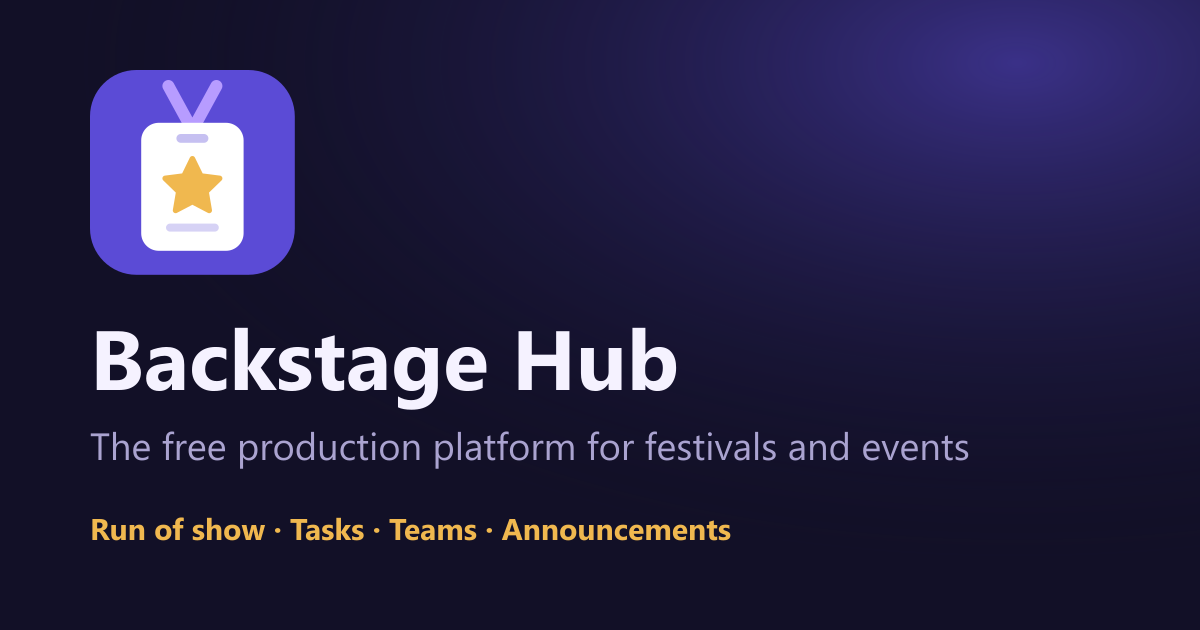
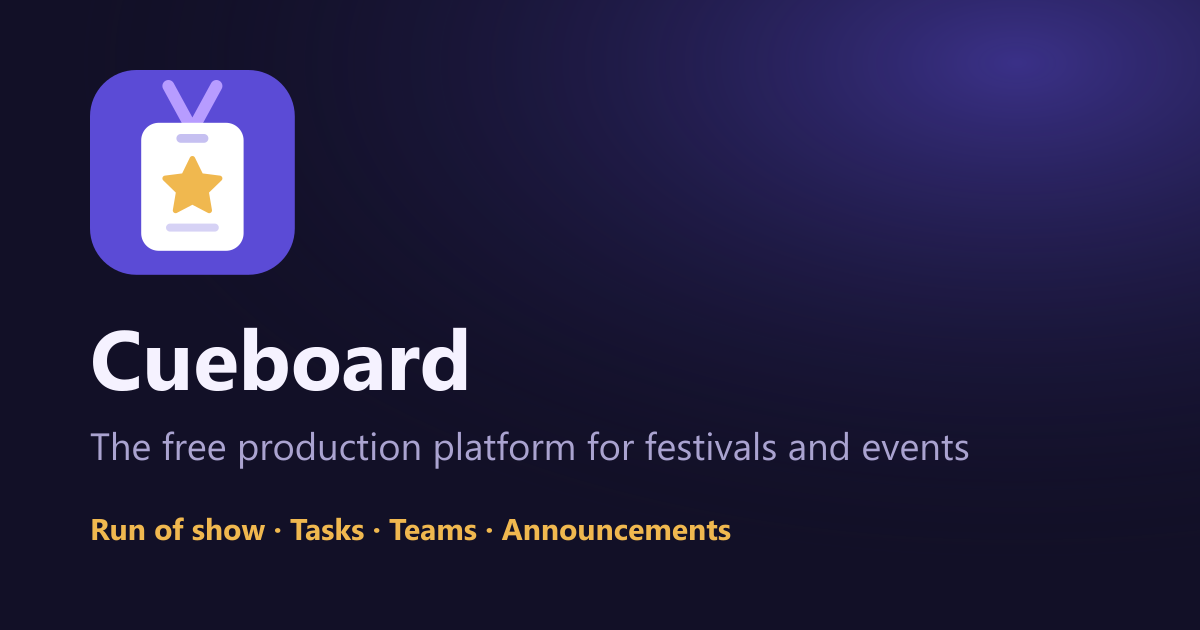
Nieuwe naam: Cueboard
App, website, manifest, help, README, gidsen, deelafbeelding en pakketnaam heten nu Cueboard. WhatsApp-uitnodiging noemt het evenement in plaats van een vaste naam.

Changed region(s): [[0.0617, 0.5127, 0.5858, 0.6635]]

diff --git a/src/content/landing.ts b/src/content/landing.ts
@@ -160,8 +160,8 @@ export const LANDING = {
   free: {
     title: L('Free. Really.', 'Gratis. Echt.'),
     body: L(
-      'Backstage Hub runs entirely on free plans. You never pay a subscription, and the code is open source, so nobody can take it away from you.',
-      'Backstage Hub draait volledig op gratis plannen. Je betaalt nooit een abonnement, en de code is open source, dus niemand kan het van je afpakken.',
+      'Cueboard runs entirely on free plans. You never pay a subscription, and the code is open source, so nobody can take it away from you.',
+      'Cueboard draait volledig op gratis plannen. Je betaalt nooit een abonnement, en de code is open source, dus niemand kan het van je afpakken.',
     ),
     rows: [
       {
@@ -233,8 +233,8 @@ export const LANDING = {
   cta: {
     title: L('Ready for your next show?', 'Klaar voor je volgende show?'),
     body: L(
-      'Set up your own Backstage Hub in an afternoon, for free.',
-      'Zet in een namiddag je eigen Backstage Hub op, gratis.',
+      'Set up your own Cueboard in an afternoon, for free.',
+      'Zet in een namiddag je eigen Cueboard op, gratis.',
     ),
   },
   footer: {
@@ -247,31 +247,31 @@ export const LANDING = {
 };
 
 export const ABOUT = {
-  title: L('About Backstage Hub', 'Over Backstage Hub'),
+  title: L('About Cueboard', 'Over Cueboard'),
   intro: L(
-    'Backstage Hub is a free, open-source production platform for festivals and events. It was made by {name}, a young stage manager.',
-    'Backstage Hub is een gratis, open-source productieplatform voor festivals en evenementen. Het is gemaakt door {name}, een jonge stage manager.',
+    'Cueboard is a free, open-source production platform for festivals and events. It was made by {name}, a young stage manager.',
+    'Cueboard is een gratis, open-source productieplatform voor festivals en evenementen. Het is gemaakt door {name}, een jonge stage manager.',
   ),
   sections: [
     {
       title: L('Why it exists', 'Waarom het bestaat'),
       body: L(
-        'On show day, the information a crew needs is everywhere: a Trello board, a few PDFs, three group chats and a printed run of show that is already outdated. The professional tools that solve this cost a lot of money every month, or are built for an office instead of a dark backstage. I wanted one place for what, who, where and when, that works with one hand, in bad signal, and that every festival can use for free. Backstage Hub is that place.',
-        'Op de showdag staat de informatie die een crew nodig heeft overal: een Trello-bord, een paar pdf’s, drie groepschats en een afgedrukte run of show die al niet meer klopt. De professionele tools die dat oplossen kosten elke maand veel geld, of zijn gemaakt voor een kantoor in plaats van een donkere backstage. Ik wilde één plek voor wat, wie, waar en wanneer, die werkt met één hand, bij slecht bereik, en die elk festival gratis kan gebruiken. Backstage Hub is die plek.',
+        'On show day, the information a crew needs is everywhere: a Trello board, a few PDFs, three group chats and a printed run of show that is already outdated. The professional tools that solve this cost a lot of money every month, or are built for an office instead of a dark backstage. I wanted one place for what, who, where and when, that works with one hand, in bad signal, and that every festival can use for free. Cueboard is that place.',
+        'Op de showdag staat de informatie die een crew nodig heeft overal: een Trello-bord, een paar pdf’s, drie groepschats en een afgedrukte run of show die al niet meer klopt. De professionele tools die dat oplossen kosten elke maand veel geld, of zijn gemaakt voor een kantoor in plaats van een donkere backstage. Ik wilde één plek voor wat, wie, waar en wanneer, die werkt met één hand, bij slecht bereik, en die elk festival gratis kan gebruiken. Cueboard is die plek.',
       ),
     },
     {
       title: L('Made with Art of Faith', 'Gemaakt met Art of Faith'),
       body: L(
-        'The first event to use Backstage Hub is the Art of Faith festival weekend. Their real way of working (a core team, coordinators, production with a team per stage, hospitality, MarCom and programme) shaped the teams, roles and templates. Everything that is specific to one festival became a setting, so any event can use it.',
-        'Het eerste evenement dat Backstage Hub gebruikt is het Art of Faith-festivalweekend. Hun echte manier van werken (een kernteam, coördinatoren, productie met een team per podium, hospitality, MarCom en programma) bepaalde de teams, rollen en sjablonen. Alles wat eigen is aan één festival werd een instelling, zodat elk evenement het kan gebruiken.',
+        'The first event to use Cueboard is the Art of Faith festival weekend. Their real way of working (a core team, coordinators, production with a team per stage, hospitality, MarCom and programme) shaped the teams, roles and templates. Everything that is specific to one festival became a setting, so any event can use it.',
+        'Het eerste evenement dat Cueboard gebruikt is het Art of Faith-festivalweekend. Hun echte manier van werken (een kernteam, coördinatoren, productie met een team per podium, hospitality, MarCom en programma) bepaalde de teams, rollen en sjablonen. Alles wat eigen is aan één festival werd een instelling, zodat elk evenement het kan gebruiken.',
       ),
     },
     {
       title: L('How it is built', 'Hoe het gemaakt is'),
       body: L(
-        'Backstage Hub is a web app (PWA) built with React and TypeScript. The data lives in Supabase (Postgres in Frankfurt, EU), where every table is protected by row-level security: the database itself checks what each role may see. The site is hosted on Cloudflare Pages. I designed and directed it as a stage manager and built it together with Claude, an AI assistant by Anthropic, step by step and with automated tests for every rule that keeps your data safe.',
-        'Backstage Hub is een web-app (PWA), gemaakt met React en TypeScript. De gegevens staan in Supabase (Postgres in Frankfurt, EU), waar elke tabel beschermd is met row-level security: de database controleert zelf wat elke rol mag zien. De site draait op Cloudflare Pages. Ik heb het als stage manager ontworpen en aangestuurd, en het samen met Claude gebouwd, een AI-assistent van Anthropic, stap voor stap en met automatische tests voor elke regel die je gegevens beschermt.',
+        'Cueboard is a web app (PWA) built with React and TypeScript. The data lives in Supabase (Postgres in Frankfurt, EU), where every table is protected by row-level security: the database itself checks what each role may see. The site is hosted on Cloudflare Pages. I designed and directed it as a stage manager and built it together with Claude, an AI assistant by Anthropic, step by step and with automated tests for every rule that keeps your data safe.',
+        'Cueboard is een web-app (PWA), gemaakt met React en TypeScript. De gegevens staan in Supabase (Postgres in Frankfurt, EU), waar elke tabel beschermd is met row-level security: de database controleert zelf wat elke rol mag zien. De site draait op Cloudflare Pages. Ik heb het als stage manager ontworpen en aangestuurd, en het samen met Claude gebouwd, een AI-assistent van Anthropic, stap voor stap en met automatische tests voor elke regel die je gegevens beschermt.',
       ),
     },
     {

diff --git a/src/i18n/nl.ts b/src/i18n/nl.ts
@@ -2,7 +2,7 @@ import type { Dictionary } from './types';
 
 export const nl: Dictionary = {
   app: {
-    name: 'Backstage Hub',
+    name: 'Cueboard',
     tagline: 'Plan, verdeel en draai je evenement samen met je crew.',
     loading: 'Bezig met laden…',
     skipToContent: 'Naar de inhoud',
@@ -70,7 +70,7 @@ export const nl: Dictionary = {
     noAccount:
       'Nog geen account? Je krijgt een uitnodiging van de beheerder via e-mail of WhatsApp.',
     privacyLink: 'Privacyverklaring',
-    whatIs: 'Wat is Backstage Hub?',
+    whatIs: 'Wat is Cueboard?',
     errTooMany: 'Te veel pogingen. Wacht een paar minuten en probeer opnieuw.',
     errInvalid: 'E-mailadres of wachtwoord klopt niet. Controleer beide en probeer opnieuw.',
     errNetwork: 'Geen verbinding met de server. Controleer je internet of probeer later opnieuw.',
@@ -104,8 +104,8 @@ export const nl: Dictionary = {
   },
   privacy: {
     title: 'Privacyverklaring',
-    p1: 'Backstage Hub bewaart enkel wat nodig is om het evenement te organiseren: je naam, team, telefoonnummer en e-mailadres, plus wat je zelf in de app doet (taken, aftekeningen, berichten).',
-    p2: 'Elke organisatie draait haar eigen kopie van Backstage Hub. Je gegevens staan in de eigen database van die organisatie bij Supabase, in een EU-regio. Ze worden niet gedeeld met derden en nooit gebruikt voor reclame.',
+    p1: 'Cueboard bewaart enkel wat nodig is om het evenement te organiseren: je naam, team, telefoonnummer en e-mailadres, plus wat je zelf in de app doet (taken, aftekeningen, berichten).',
+    p2: 'Elke organisatie draait haar eigen kopie van Cueboard. Je gegevens staan in de eigen database van die organisatie bij Supabase, in een EU-regio. Ze worden niet gedeeld met derden en nooit gebruikt voor reclame.',
     p3: 'De organisatie die je uitnodigde, is verantwoordelijk voor je gegevens. Wil je je gegevens inkijken of laten wissen? Vraag het aan de beheerder van je evenement.',
     back: 'Terug',
   },
@@ -233,7 +233,7 @@ export const nl: Dictionary = {
     copied: 'Gekopieerd',
     copyPrompt: 'Kopieer deze link:',
     whatsappText:
-      'Hoi {first}! Je bent uitgenodigd voor de Art of Faith Production Hub. Open deze link op je eigen toestel en kies een wachtwoord (de link werkt één keer): {link}',
+      'Hoi {first}! Je bent uitgenodigd voor {event} op Cueboard. Open deze link op je eigen toestel en kies een wachtwoord (de link werkt één keer): {link}',
     deactivate: 'Deactiveren',
     reactivate: 'Opnieuw activeren',
     confirmDeactivate: '{name} deactiveren? De toegang is meteen weg.',
@@ -566,7 +566,7 @@ export const nl: Dictionary = {
   setup: {
     claimTitle: 'Welkom! Je bent hier de eerste',
     claimBody:
-      'Nog niemand beheert deze Backstage Hub. Word beheerder om je evenement in te stellen, je team uit te nodigen en de planning te maken.',
+      'Nog niemand beheert deze Cueboard. Word beheerder om je evenement in te stellen, je team uit te nodigen en de planning te maken.',
     claimButton: 'Beheerder worden',
     title: 'Je evenement instellen',
     progress: '{done} van {total} stappen klaar',

diff --git a/src/i18n/en.ts b/src/i18n/en.ts
@@ -4,7 +4,7 @@
 
 export const en = {
   app: {
-    name: 'Backstage Hub',
+    name: 'Cueboard',
     tagline: 'Plan, assign and run your event with your crew.',
     loading: 'Loading…',
     skipToContent: 'Skip to content',
@@ -71,7 +71,7 @@ export const en = {
     forgotLink: 'Forgot your password?',
     noAccount: 'No account yet? The admin will send you an invite by email or WhatsApp.',
     privacyLink: 'Privacy statement',
-    whatIs: 'What is Backstage Hub?',
+    whatIs: 'What is Cueboard?',
     errTooMany: 'Too many attempts. Wait a few minutes and try again.',
     errInvalid: 'Email address or password is incorrect. Check both and try again.',
     errNetwork: 'No connection to the server. Check your internet or try again later.',
@@ -105,8 +105,8 @@ export const en = {
   },
   privacy: {
     title: 'Privacy statement',
-    p1: 'Backstage Hub only stores what is needed to run the event: your name, team, phone number and email address, plus what you do in the app (tasks, sign-offs, messages).',
-    p2: 'Every organisation runs its own copy of Backstage Hub. Your data is stored in that organisation’s own database at Supabase, in an EU region. It is not shared with third parties and never used for advertising.',
+    p1: 'Cueboard only stores what is needed to run the event: your name, team, phone number and email address, plus what you do in the app (tasks, sign-offs, messages).',
+    p2: 'Every organisation runs its own copy of Cueboard. Your data is stored in that organisation’s own database at Supabase, in an EU region. It is not shared with third parties and never used for advertising.',
     p3: 'The organisation that invited you is responsible for your data. Want to see your data or have it deleted? Ask the admin of your event.',
     back: 'Back',
   },
@@ -234,7 +234,7 @@ export const en = {
     copied: 'Copied',
     copyPrompt: 'Copy this link:',
     whatsappText:
-      'Hi {first}! You have been invited to the Art of Faith Production Hub. Open this link on your own device and choose a password (the link works once): {link}',
+      'Hi {first}! You have been invited to {event} on Cueboard. Open this link on your own device and choose a password (the link works once): {link}',
     deactivate: 'Deactivate',
     reactivate: 'Reactivate',
     confirmDeactivate: 'Deactivate {name}? Access is removed immediately.',
@@ -563,7 +563,7 @@ export const en = {
   setup: {
     claimTitle: 'Welcome! You are the first one here',
     claimBody:
-      'Nobody manages this Backstage Hub yet. Become the admin to set up your event, invite your team and build the schedule.',
+      'Nobody manages this Cueboard yet. Become the admin to set up your event, invite your team and build the schedule.',
     claimButton: 'Become admin',
     title: 'Set up your event',
     progress: '{done} of {total} steps done',

diff --git a/src/content/help.ts b/src/content/help.ts
@@ -51,10 +51,10 @@ export const CATEGORIES: { id: CategoryId; title: Text; icon: string; color: str
 export const ARTICLES: Article[] = [
   // ---------------------------------------------------------------- Aan de slag
   {
-    slug: 'what-is-backstage-hub',
+    slug: 'what-is-cueboard',
     category: 'start',
     audience: 'everyone',
-    title: L('What is Backstage Hub?', 'Wat is Backstage Hub?'),
+    title: L('What is Cueboard?', 'Wat is Cueboard?'),
     summary: L(
       'One place for what, who, where and when during your event.',
       'Eén plek voor wat, wie, waar en wanneer tijdens je evenement.',
@@ -63,8 +63,8 @@ export const ARTICLES: Article[] = [
       {
         type: 'p',
         text: L(
-          'Backstage Hub replaces the mix of Trello boards, PDFs and group chats that most productions use. Everyone on the team sees their own day: what is happening now, what is next, which tasks are theirs and what the team needs to know.',
-          'Backstage Hub vervangt de mix van Trello-borden, pdf’s en groepschats die de meeste producties gebruiken. Iedereen in het team ziet de eigen dag: wat er nu gebeurt, wat er komt, welke taken van jou zijn en wat het team moet weten.',
+          'Cueboard replaces the mix of Trello boards, PDFs and group chats that most productions use. Everyone on the team sees their own day: what is happening now, what is next, which tasks are theirs and what the team needs to know.',
+          'Cueboard vervangt de mix van Trello-borden, pdf’s en groepschats die de meeste producties gebruiken. Iedereen in het team ziet de eigen dag: wat er nu gebeurt, wat er komt, welke taken van jou zijn en wat het team moet weten.',
         ),
       },
       { type: 'h', text: L('The parts', 'De onderdelen') },
@@ -809,8 +809,8 @@ export const ARTICLES: Article[] = [
     audience: 'admins',
     title: L('Set up your own free copy', 'Je eigen gratis kopie opzetten'),
     summary: L(
-      'Your own Backstage Hub on free plans, in about an hour.',
-      'Je eigen Backstage Hub op gratis plannen, in ongeveer een uur.',
+      'Your own Cueboard on free plans, in about an hour.',
+      'Je eigen Cueboard op gratis plannen, in ongeveer een uur.',
     ),
     blocks: [
       {

diff --git a/index.html b/index.html
@@ -7,17 +7,17 @@
     <meta name="apple-mobile-web-app-capable" content="yes" />
     <meta name="mobile-web-app-capable" content="yes" />
     <meta name="apple-mobile-web-app-status-bar-style" content="black-translucent" />
-    <meta name="apple-mobile-web-app-title" content="Backstage Hub" />
+    <meta name="apple-mobile-web-app-title" content="Cueboard" />
     <link rel="icon" href="/favicon.ico" sizes="48x48" />
     <link rel="icon" href="/logo.svg" type="image/svg+xml" />
     <link rel="apple-touch-icon" href="/apple-touch-icon-180x180.png" />
-    <title>Backstage Hub · Free production platform for festivals and events</title>
+    <title>Cueboard · Free production platform for festivals and events</title>
     <meta
       name="description"
       content="Run of show, tasks, teams and announcements in one place. Free and open source, made by a stage manager. Works on iPad, iPhone and laptop."
     />
     <meta property="og:type" content="website" />
-    <meta property="og:title" content="Backstage Hub" />
+    <meta property="og:title" content="Cueboard" />
     <meta
       property="og:description"
       content="The free production platform for festivals and events. Made by a stage manager, for crews."

diff --git a/src/config/site.ts b/src/config/site.ts
@@ -1,8 +1,8 @@
-// Publieke gegevens van Backstage Hub. Pas dit bestand aan als je een eigen
+// Publieke gegevens van Cueboard. Pas dit bestand aan als je een eigen
 // kopie opzet: de rest van de site leest alles hieruit.
 
 export const SITE = {
-  name: 'Backstage Hub',
+  name: 'Cueboard',
   creator: {
     name: 'Elias Azizov',
     /** Optionele link (bv. Instagram of LinkedIn). Leeg = geen link. */
@@ -10,7 +10,7 @@ export const SITE = {
   },
   /**
    * Publieke GitHub-repository met de code (open source, MIT).
-   * Vul in zodra de repository bestaat, bv. 'https://github.com/jouwnaam/backstage-hub'.
+   * Vul in zodra de repository bestaat, bv. 'https://github.com/jouwnaam/cueboard'.
    * Leeg = de links naar code en forum worden verborgen.
    */
   repoUrl: '',

diff --git a/src/features/people/ShareLink.tsx b/src/features/people/ShareLink.tsx
@@ -2,12 +2,18 @@ import { useState } from 'react';
 import { Check, Copy, MessageCircle } from 'lucide-react';
 import { whatsappUrl } from '@/lib/invite';
 import { useT } from '@/lib/usePrefs';
+import { useEvent } from '@/lib/refdata';
 
 /** Shows a one-time link with buttons to copy it or share it via WhatsApp. */
 export function ShareLink({ name, link }: { name: string; link: string }) {
   const { t } = useT();
+  const event = useEvent();
   const [copied, setCopied] = useState(false);
-  const message = t('people.whatsappText', { first: name.split(' ')[0] ?? name, link });
+  const message = t('people.whatsappText', {
+    first: name.split(' ')[0] ?? name,
+    event: event.data?.name ?? 'Cueboard',
+    link,
+  });
 
   async function copy() {
     try {

diff --git a/src/features/public/HelpPages.tsx b/src/features/public/HelpPages.tsx
@@ -33,8 +33,8 @@ const CAT_ICON: Record<string, LucideIcon> = {
 const T = {
   title: { en: 'Help centre', nl: 'Helpcentrum' },
   subtitle: {
-    en: 'Step-by-step explanations of every part of Backstage Hub.',
-    nl: 'Stap-voor-stap uitleg over elk onderdeel van Backstage Hub.',
+    en: 'Step-by-step explanations of every part of Cueboard.',
+    nl: 'Stap-voor-stap uitleg over elk onderdeel van Cueboard.',
   },
   search: {
     en: 'Search, for example "import" or "radio"',

diff --git a/vite.config.ts b/vite.config.ts
@@ -14,8 +14,8 @@ export default defineConfig({
       registerType: 'prompt',
       includeAssets: ['logo.svg', 'favicon.ico', 'apple-touch-icon-180x180.png'],
       manifest: {
-        name: 'Backstage Hub',
-        short_name: 'Backstage Hub',
+        name: 'Cueboard',
+        short_name: 'Cueboard',
         description: 'Plan, assign and run your event with your crew.',
         lang: 'en',
         start_url: '/',

diff --git a/src/features/public/LandingPage.tsx b/src/features/public/LandingPage.tsx
@@ -36,7 +36,7 @@ const FEATURE_ICON: Record<string, { icon: LucideIcon; color: string }> = {
   offline: { icon: Wifi, color: 'rose' },
 };
 
-/** Publieke showcase: wat is Backstage Hub, voor wie, en hoe begin je. */
+/** Publieke showcase: wat is Cueboard, voor wie, en hoe begin je. */
 export function LandingPage() {
   const tx = useTx();
   const s = LANDING.showcase;

diff --git a/src/lib/branding.tsx b/src/lib/branding.tsx
@@ -4,7 +4,7 @@ import { compressImage } from './image';
 import { AppError } from '@/i18n';
 
 /** Naam van de app zelf. Het evenement heeft daarnaast een eigen naam en logo. */
-export const APP_NAME = 'Backstage Hub';
+export const APP_NAME = 'Cueboard';
 export const APP_LOGO = '/logo.svg';
 
 export function logoUrl(path: string | null | undefined): string | null {

diff --git a/docs/SETUP.nl.md b/docs/SETUP.nl.md
@@ -1,4 +1,4 @@
-# Je eigen Backstage Hub opzetten (Nederlands)
+# Je eigen Cueboard opzetten (Nederlands)
 
 Je doet dit één keer per organisatie. Reken op ongeveer een uur. Alles gebeurt op **gratis plannen zonder creditcard**. Noteer wachtwoorden en sleutels in een wachtwoordmanager, **nooit** in een bestand in de code.
 
@@ -11,7 +11,7 @@ Je hebt nodig: een laptop (Windows of Mac) met [Node.js](https://nodejs.org) (ve
 ## Stap 1: Je eigen privé-kopie van de code (GitHub)
 
 1. Maak een gratis account op <https://github.com/signup>. Vul **geen** betaalgegevens in.
-2. Open de repository van Backstage Hub en klik **Use this template** → **Create a new repository**.
+2. Open de repository van Cueboard en klik **Use this template** → **Create a new repository**.
 3. Kies een naam (bv. `ons-festival-hub`) en kies **Private**. Dat is belangrijk: de nachtelijke back-ups met persoonsgegevens komen in deze repository, en artefacten van een publieke repository zijn voor iedereen te downloaden.
 4. Haal je kopie naar je laptop (vervang `JOUWNAAM` en de naam):
 
@@ -62,7 +62,7 @@ Supabase stuurt zelf alleen mails naar jezelf (max. 2 per uur). Voor uitnodiging
 3. **SMTP & API** → tab **SMTP** → **Generate a new SMTP key**. Kopieer de sleutel.
 4. In Supabase: **Authentication** → **Emails** → **SMTP Settings** → zet **Enable custom SMTP** aan:
    - Sender email: je geverifieerde adres uit punt 2
-   - Sender name: `Backstage Hub` (of de naam van je evenement)
+   - Sender name: `Cueboard` (of de naam van je evenement)
    - Host: `smtp-relay.brevo.com`, poort: `587`
    - Username: de login die Brevo toont bij SMTP
    - Password: de SMTP-sleutel uit punt 3
@@ -151,10 +151,10 @@ Test ze: tab **Actions** → **Keep-alive Supabase** → **Run workflow**. Een g
 
 ## Updates binnenhalen
 
-Nieuwe versies van Backstage Hub haal je binnen door de originele repository als `upstream` toe te voegen en te mergen:
+Nieuwe versies van Cueboard haal je binnen door de originele repository als `upstream` toe te voegen en te mergen:
 
 ```bash
-git remote add upstream https://github.com/ORIGINEEL/backstage-hub.git
+git remote add upstream https://github.com/ORIGINEEL/cueboard.git
 ```
 
 ```bash
